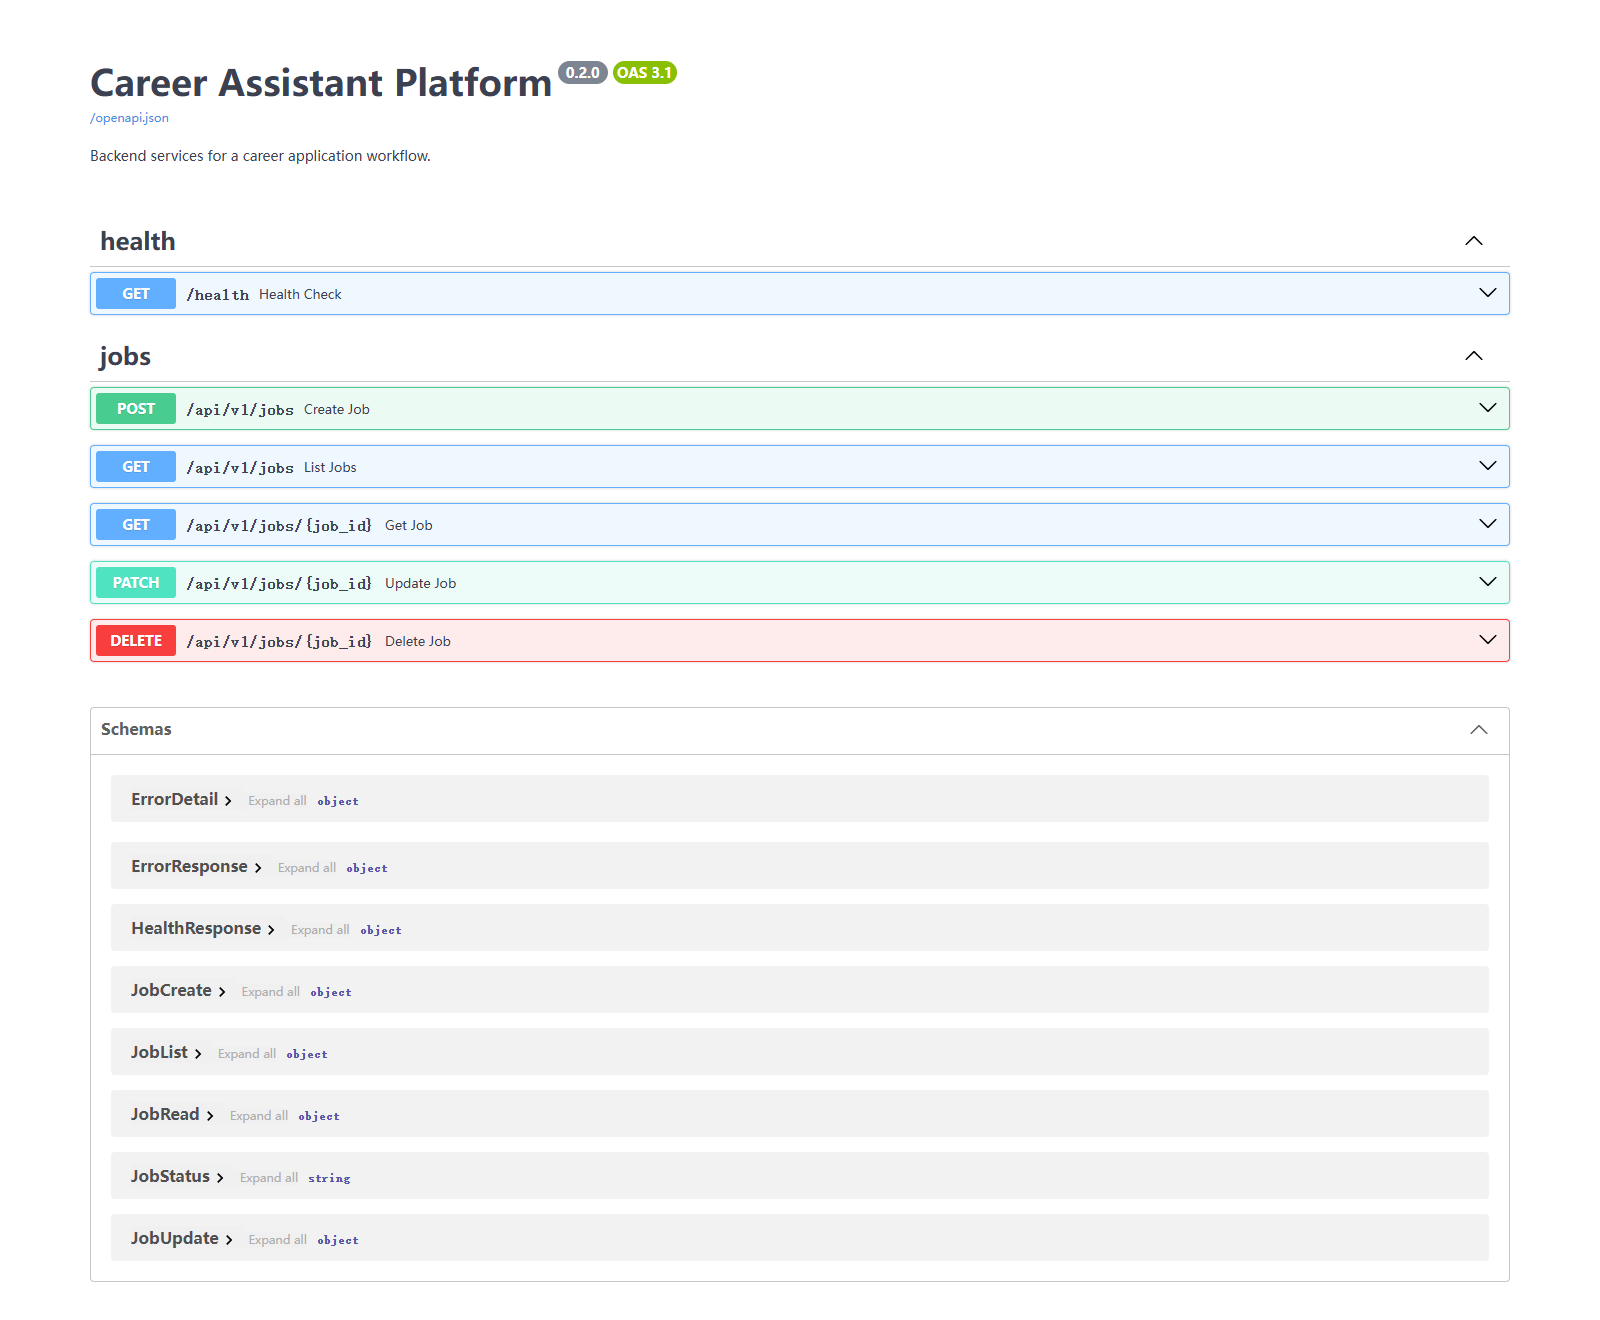
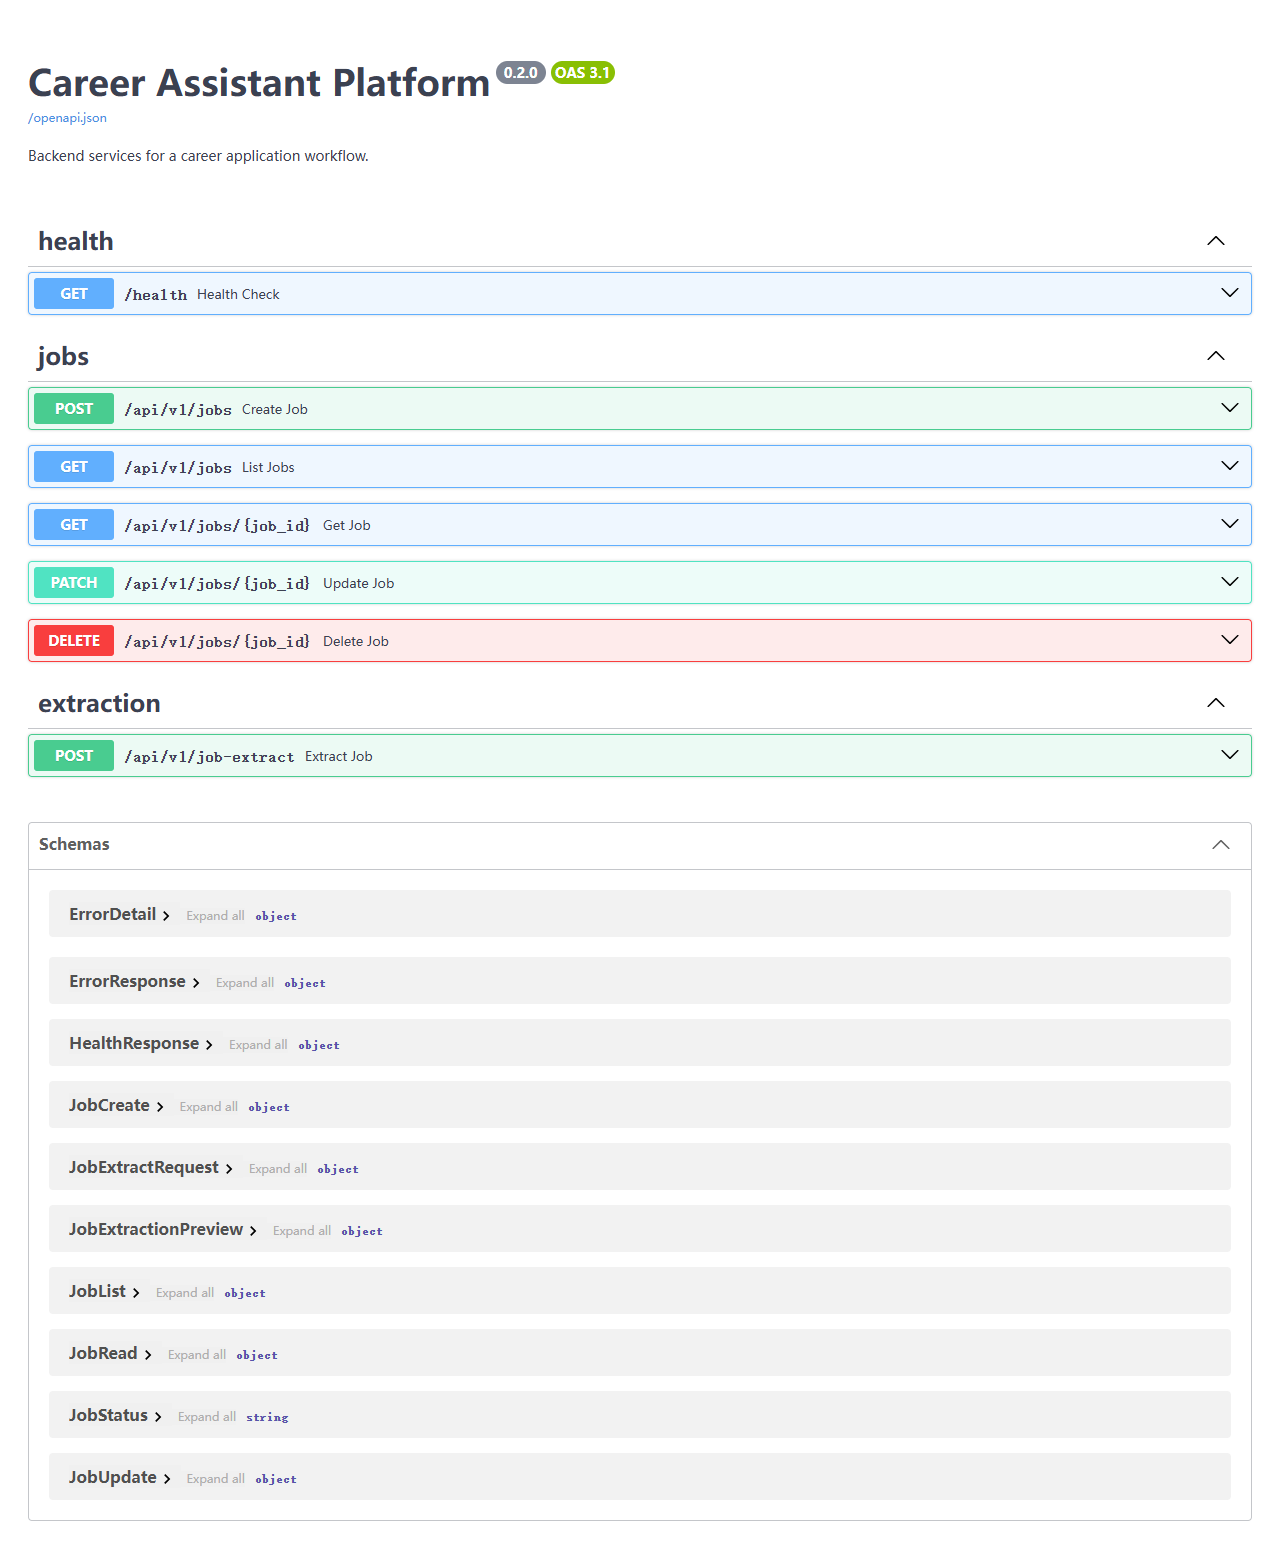
docs: add phase 2 evidence and engineering notes

diff --git a/scripts/render_pytest_evidence.py b/scripts/render_pytest_evidence.py
@@ -1,0 +1,95 @@
+"""Render a compact HTML evidence page from a pytest JUnit XML report."""
+
+from __future__ import annotations
+
+import argparse
+from collections import Counter
+from datetime import datetime, timezone
+from html import escape
+from pathlib import Path
+import platform
+import xml.etree.ElementTree as ET
+
+
+def parse_report(report_path: Path) -> tuple[dict[str, int | float], list[tuple[str, int]]]:
+    root = ET.parse(report_path).getroot()
+    suites = [root] if root.tag == "testsuite" else list(root.findall("testsuite"))
+    totals: dict[str, int | float] = {
+        "tests": 0,
+        "failures": 0,
+        "errors": 0,
+        "skipped": 0,
+        "time": 0.0,
+    }
+    modules: Counter[str] = Counter()
+
+    for suite in suites:
+        for key in ("tests", "failures", "errors", "skipped"):
+            totals[key] += int(suite.attrib.get(key, 0))
+        totals["time"] += float(suite.attrib.get("time", 0.0))
+        for case in suite.findall("testcase"):
+            module = case.attrib.get("classname", "tests").split(".")[-1]
+            modules[module] += 1
+
+    return totals, sorted(modules.items())
+
+
+def render(report_path: Path, output_path: Path) -> None:
+    totals, modules = parse_report(report_path)
+    passed = int(totals["tests"]) - int(totals["failures"]) - int(totals["errors"]) - int(totals["skipped"])
+    generated = datetime.now(timezone.utc).strftime("%Y-%m-%d %H:%M UTC")
+    module_rows = "".join(
+        f"<div class='module'><span>{escape(name)}</span><strong>{count}</strong></div>"
+        for name, count in modules
+    )
+    html = f"""<!doctype html>
+<html lang="en">
+<head>
+  <meta charset="utf-8">
+  <meta name="viewport" content="width=device-width, initial-scale=1">
+  <link rel="icon" href="data:,">
+  <title>Career Assistant Platform — Test Evidence</title>
+  <style>
+    :root {{ color-scheme: dark; --ink:#07111f; --panel:#0d1b2e; --line:#284260; --green:#64e6a7; --muted:#9bb0c7; }}
+    * {{ box-sizing:border-box; }}
+    body {{ margin:0; min-height:100vh; background:var(--ink); color:#f5f8fb; font-family:"Segoe UI",sans-serif; }}
+    main {{ width:min(1180px,calc(100% - 72px)); margin:0 auto; padding:64px 0; }}
+    .eyebrow {{ color:var(--green); font:600 13px/1.2 Consolas,monospace; letter-spacing:.16em; text-transform:uppercase; }}
+    h1 {{ margin:16px 0 10px; font:700 48px/1.05 Bahnschrift,"Segoe UI",sans-serif; }}
+    .sub {{ color:var(--muted); font-size:18px; }}
+    .hero {{ margin:48px 0 32px; display:grid; grid-template-columns:2fr repeat(3,1fr); gap:16px; }}
+    .card {{ min-height:152px; padding:24px; border:1px solid var(--line); background:var(--panel); }}
+    .card.primary {{ border-top:4px solid var(--green); }}
+    .label {{ color:var(--muted); font:600 12px/1.2 Consolas,monospace; letter-spacing:.12em; text-transform:uppercase; }}
+    .value {{ margin-top:18px; font:700 50px/1 Bahnschrift,"Segoe UI",sans-serif; }}
+    .value.green {{ color:var(--green); }}
+    .modules {{ border:1px solid var(--line); background:var(--panel); padding:28px; }}
+    .modules h2 {{ margin:0 0 22px; font:600 22px Bahnschrift,"Segoe UI",sans-serif; }}
+    .module {{ display:flex; justify-content:space-between; padding:13px 0; border-top:1px solid #1d334d; font-family:Consolas,monospace; }}
+    .module span {{ color:#c8d5e3; }}
+    footer {{ display:flex; justify-content:space-between; gap:24px; margin-top:26px; color:var(--muted); font:13px Consolas,monospace; }}
+  </style>
+</head>
+<body><main>
+  <div class="eyebrow">Verified build evidence</div>
+  <h1>Automated API test suite</h1>
+  <div class="sub">Career Assistant Platform · pytest · isolated temporary SQLite databases</div>
+  <section class="hero">
+    <div class="card primary"><div class="label">Result</div><div class="value green">{passed} passed</div></div>
+    <div class="card"><div class="label">Failed</div><div class="value">{int(totals['failures'])}</div></div>
+    <div class="card"><div class="label">Errors</div><div class="value">{int(totals['errors'])}</div></div>
+    <div class="card"><div class="label">Duration</div><div class="value">{float(totals['time']):.2f}s</div></div>
+  </section>
+  <section class="modules"><h2>Coverage by test module</h2>{module_rows}</section>
+  <footer><span>Python {escape(platform.python_version())} · {escape(platform.system())}</span><span>Generated from pytest JUnit XML · {generated}</span></footer>
+</main></body></html>"""
+    output_path.parent.mkdir(parents=True, exist_ok=True)
+    output_path.write_text(html, encoding="utf-8")
+
+
+if __name__ == "__main__":
+    parser = argparse.ArgumentParser()
+    parser.add_argument("report", type=Path)
+    parser.add_argument("output", type=Path)
+    args = parser.parse_args()
+    render(args.report, args.output)

diff --git a/docs/architecture/current-architecture.md b/docs/architecture/current-architecture.md
@@ -2,49 +2,71 @@
 
 ## Scope
 
-Phase 2 adds one database-backed domain entity: `Job`. User accounts, resumes, applications, interviews, AI integrations, RAG, agents, tool calling, queues, and external services remain outside the current system boundary.
+Phase 2 implements one persisted domain entity, `Job`, plus a preview-only job-description extraction boundary. There are no user, resume, application, interview, vector, agent, or authentication tables.
 
 ```mermaid
 flowchart TB
-    Consumer[HTTP Client / Swagger UI]
-    App[FastAPI app.main]
-    Health[Health Router]
-    Jobs[Job Router /api/v1/jobs]
-    Errors[Unified 404 and 422 Handlers]
-    Service[Job Service]
+    Client[Browser / API Client]
+    Demo[Lightweight Demo]
+    Swagger[Swagger UI]
+    App[FastAPI Application]
+    Jobs[Job Router]
+    Extract[Extraction Router]
+    JobService[Job Service]
+    ExtractService[Extraction Service]
+    Rule[Rule-based Provider]
+    DeepSeek[DeepSeek Provider - Optional]
+    Mock[Mock Provider - Test/Dev]
     ORM[SQLAlchemy 2 ORM]
     DevDB[(Development SQLite)]
 
-    Consumer --> App
-    App --> Health
-    App --> Jobs
-    App --> Errors
-    Jobs --> Service
-    Service --> ORM
-    ORM --> DevDB
+    Client --> Demo
+    Client --> Swagger
+    Demo --> Jobs
+    Demo --> Extract
+    Swagger --> App
+    Jobs --> App
+    Extract --> App
+    App --> JobService
+    App --> ExtractService
+    JobService --> ORM --> DevDB
+    ExtractService --> Rule
+    ExtractService -. configured only .-> DeepSeek
+    ExtractService -. tests/development only .-> Mock
+    ExtractService --> Preview[Editable Extraction Preview]
+    Preview -->|explicit save| Jobs
 
     Tests[pytest + HTTPX ASGITransport] --> App
     Tests --> TestDB[(Fresh SQLite database per test)]
 ```
 
-## Request Flow
+## Request Flows
+
+### Job persistence
 
 1. FastAPI validates path, query, and body data against Pydantic contracts.
 2. The Job router passes a request-scoped SQLAlchemy session to the service layer.
-3. The service performs CRUD, filtering, ordering, and pagination through SQLAlchemy 2.x statements.
+3. The service performs CRUD, filtering, ordering, and pagination with SQLAlchemy 2.x statements.
 4. ORM entities are converted to explicit response schemas.
-5. Domain not-found exceptions and request-validation failures use a consistent error envelope.
+5. Domain not-found exceptions and validation failures use one error envelope.
+
+### Job-description extraction
+
+1. `POST /api/v1/job-extract` validates a non-blank input of at most 20,000 characters.
+2. `ExtractionService` chooses the configured provider. With the safe default and no API key, it uses deterministic rule-based extraction.
+3. DeepSeek failures are classified and may fall back to rules. The response then says `rule_based_fallback`; it never claims model success.
+4. The result is a preview and does not touch the database. A user must explicitly save through `POST /api/v1/jobs`.
 
 ## Design Boundaries
 
-- `app/main.py` composes the application and initializes metadata during the lifespan startup.
-- `app/api/` owns HTTP semantics and parameter constraints.
-- `app/services/job_service.py` owns the current business and persistence operations without additional repository/DAO layers.
-- `app/models/job.py` owns the SQLAlchemy table and status enum.
-- `app/schemas/` keeps request, response, list, and error contracts separate from ORM models.
-- `app/core/` owns environment settings, session lifecycle, and exception handlers.
-- `tests/conftest.py` replaces the runtime database dependency with a new temporary SQLite database for each test.
+- `app/main.py` composes routers, static assets, error handling, and database startup.
+- `app/api/` owns HTTP semantics; `/demo` consumes the same public API rather than bypassing it.
+- `app/services/job_service.py` owns Job persistence without extra repository/DAO layers.
+- `app/services/extraction/` contains the rule-based, optional DeepSeek, and test/development mock providers.
+- `app/models/job.py` is the only SQLAlchemy entity.
+- `app/schemas/` keeps API contracts separate from ORM models.
+- `tests/conftest.py` replaces the runtime database dependency with a new temporary SQLite database for every test.
 
 ## Database Portability Boundary
 
-The engine is created from `DATABASE_URL`. SQLite receives only its required `check_same_thread=False` option; other SQLAlchemy URLs are passed without SQLite-specific settings. MySQL still requires a selected driver, a running database, and real verification before it can be claimed as supported.
+The engine is created from `DATABASE_URL`. SQLite receives only its required `check_same_thread=False` option; other SQLAlchemy URLs do not. MySQL still requires a selected driver, a running database, and real verification before it can be claimed as supported.

diff --git a/docs/development/phase-02-completion.md b/docs/development/phase-02-completion.md
@@ -1,0 +1,54 @@
+# Phase 2 Completion Log
+
+Date: 2026-09-24
+
+## Outcome
+
+Phase 2 now provides a complete Job management slice: persistence, validated CRUD, filters, pagination, deterministic demo data, a small browser demo, preview-only JD extraction, 40 automated tests, and reproducible visual evidence.
+
+## Database and Test Isolation
+
+- Development database: SQLite at the environment-configured `DATABASE_URL`; the default is `sqlite:///./career_assistant.db`.
+- Demo seed: 10 fictional records across six lifecycle states and multiple companies/locations.
+- Test database: a new temporary SQLite file for every pytest case through a dependency override.
+- MySQL: CLI, Windows service, and port 3306 were unavailable; no installation was attempted and MySQL was not verified.
+- Schema initialization stays on `Base.metadata.create_all()` because a single-table MVP has no migration history to evolve yet.
+
+## Lifecycle, Filtering, and Pagination
+
+The lifecycle is `saved`, `applied`, `interview`, `offer`, `rejected`, and `closed`. `closed` covers expired or withdrawn opportunities without mislabeling them as employer rejection. List requests support page/page-size plus case-insensitive exact company/location filters and status filtering.
+
+## Demo Design
+
+`GET /demo` is a framework-light HTML/CSS/JavaScript workbench served by FastAPI. It reads and writes through the existing REST API. It shows live status counts, filtering, the current Job list, and a four-step Paste → Extract → Review → Save flow. There is no parallel business implementation in the page.
+
+## Extraction Provider Design
+
+- `rule_based`: always available, deterministic, and tested; recognizes labeled title/company/location fields and a bounded skill vocabulary.
+- `deepseek`: optional HTTP provider with timeout and classified handling for authentication, rate limits, server errors, network failures, and malformed responses.
+- `mock`: deterministic test/development provider whose response is explicitly labeled `mock`.
+- Fallback responses are explicitly labeled `rule_based_fallback` with a non-secret reason code.
+
+Extraction creates a preview only. Persistence remains an explicit call to the Job API.
+
+## DeepSeek Availability
+
+Only the project configuration and current shell environment were checked. No `DEEPSEEK_API_KEY`, base URL, or model override was configured, so no real external call was attempted. The code default (`https://api.deepseek.com`, `deepseek-flash`) and JSON response mode were checked against the current official DeepSeek API documentation. Provider behavior is covered with HTTPX mock transports, not reported as real-provider verification.
+
+## Verification
+
+- `python -m pytest -v`: 40 passed.
+- Real Uvicorn acceptance: health, Swagger, list, create, get, update, filter, pagination, extraction, delete, and post-delete 404.
+- Browser acceptance: `/demo` and `/docs` rendered without console errors; a synthetic extracted preview was edited, saved, observed in the tracker, and deleted afterward.
+- Seed idempotency: first normalization produced 10 demo records; a repeat produced `created=0, skipped=10`.
+
+## Bugs and Lessons
+
+The detailed issue log records the real failures and fixes. The most reusable lessons were to keep runtime error schemas aligned with OpenAPI, avoid `file:` navigation for automated screenshots, remove browser-console noise such as a missing favicon, and generate test evidence from machine-readable output rather than manually typing a result.
+
+## Deferred
+
+- MySQL runtime and driver verification
+- Alembic migrations when schema evolution begins
+- Real DeepSeek smoke test when the user deliberately supplies a key
+- Authentication, additional career entities, deployment, and observability

diff --git a/docs/research/open-source-reference.md b/docs/research/open-source-reference.md
@@ -1,0 +1,20 @@
+# Open-source Reference Review
+
+Reviewed on 2026-09-24 using repository metadata and README files through the GitHub API. No repository was cloned and no third-party source code was copied.
+
+| Repository | License | Useful reference | Adopted here | Intentionally not adopted |
+|---|---|---|---|---|
+| [career-ops-hq/career-ops](https://github.com/career-ops-hq/career-ops) | MIT | Local-first positioning, explicit limits, and evidence-led project presentation | Honest implemented-versus-planned language and a visible user-controlled workflow | Automated job searching, CV tailoring, scoring, and agent workflows are beyond Phase 2 |
+| [Gsync/jobsync](https://github.com/Gsync/jobsync) | MIT | Application tracking, dashboard summaries, and confirmation before a pasted posting is stored | Paste → extract → editable preview → explicit save; status summary cards | Its broader resume, contact, task, discovery, MCP, and deployment stack would obscure this backend-focused MVP |
+| [DanielPan12/JobHuntBot](https://github.com/DanielPan12/JobHuntBot) | MIT | Small local dashboard, clear privacy boundaries, and synthetic/empty starter data | Framework-light demo UI and deliberate separation of demo data from private job-search data | Browser-driven application submission and CSV workflow automation are outside the product boundary |
+| [offercontext/offerPilot](https://github.com/offercontext/offerPilot) | AGPL-3.0 | Local-first job lifecycle presentation and real-interface documentation | Six explicit Job states and screenshots tied to actual running behavior | Its multi-domain product scope and AGPL implementation were not reused; this project remains an independent MIT implementation |
+
+## Decisions
+
+- Keep the data model to one real entity until the Job lifecycle is stable.
+- Make offline behavior useful: rule-based extraction works without an external key.
+- Require explicit user confirmation between extraction and persistence.
+- Prefer a small FastAPI-hosted demo over a separate frontend toolchain.
+- Show real tests, screenshots, and database constraints rather than future feature mockups.
+
+Repository names, descriptions, and license identifiers were verified from GitHub on the review date. Ideas were reimplemented against this project's own API and constraints.

diff --git a/docs/development/phase-02-job-management.md b/docs/development/phase-02-job-management.md
@@ -50,13 +50,13 @@ Six statuses were selected: `saved`, `applied`, `interview`, `offer`, `rejected`
 
 The suite exercises the ASGI application through HTTPX. A fixture creates a new SQLite file and SQLAlchemy engine for every test, overrides `get_db`, and disposes the engine afterward. This prevents ordering dependencies and protects the development database.
 
-Phase 2 result: 17 tests passed, including all required CRUD, validation, pagination, filtering, and missing-resource cases.
+The initial Job API milestone passed 17 tests. The completed Phase 2 suite now passes 40 tests covering CRUD, validation, pagination, filtering, demo assets, idempotent seeding, extraction providers, and truthful fallback behavior.
 
 ## Manual Acceptance
 
 Uvicorn was started at `127.0.0.1:8000`. Real requests verified `/health`, `/docs`, create, get, combined filters, patch, delete, and missing-resource behavior. Swagger “Try it out” created a second synthetic Job and returned HTTP `201`.
 
-See [API Acceptance Evidence](api-acceptance-phase-02.md) and the images in [`docs/images`](../images/README.md).
+The completed acceptance also verified `/demo` and `/api/v1/job-extract`. See [API Acceptance Evidence](api-acceptance-phase-02.md), the [completion log](phase-02-completion.md), and the images in [`docs/images`](../images/README.md).
 
 ## Deferred Work
 
@@ -64,4 +64,5 @@ See [API Acceptance Evidence](api-acceptance-phase-02.md) and the images in [`do
 - Alembic migrations
 - Entities other than Job
 - Authentication and authorization
-- AI, RAG, agents, MCP, and vector storage
+- Real DeepSeek smoke verification (no key was configured)
+- RAG, agents, MCP, and vector storage

diff --git a/docs/development/issue-log.md b/docs/development/issue-log.md
@@ -37,3 +37,17 @@
 **Cause:** The browser automation safety policy blocks the `file:` protocol.
 
 **Resolution:** Served the static diagram temporarily on `127.0.0.1:8765`, captured the verified page, and stopped the temporary server. No schema data was uploaded externally.
+
+## 2026-09-24: Demo acceptance produced a browser console error
+
+**Observed:** The demo rendered and functioned, but the browser console reported a `404` for `/favicon.ico`.
+
+**Cause:** Browsers request a favicon automatically even when a page does not declare one.
+
+**Resolution:** Added a safe inline `data:` favicon to the demo and the reproducible test-evidence page, reran browser acceptance, and confirmed zero console errors and warnings.
+
+## 2026-09-24: Test screenshot risked becoming manually curated evidence
+
+**Observed:** A terminal screenshot would be difficult to reproduce at a stable size and could be mistaken for manually composed output.
+
+**Resolution:** Ran pytest with JUnit XML output, added a small renderer that reads the real counts and duration, and captured that generated page in a real browser. The source XML remains a local ignored build artifact; the screenshot reports the verified 40-test run.

diff --git a/docs/development/api-acceptance-phase-02.md b/docs/development/api-acceptance-phase-02.md
@@ -10,6 +10,8 @@ All records below are synthetic. Uvicorn served the real application on `http://
 |---|---|
 | `GET /health` | `200`, `{"status":"ok"}` |
 | `GET /docs` | `200` |
+| `GET /demo` | `200`, live dashboard loaded 10 synthetic Jobs |
+| `POST /api/v1/job-extract` | `200`, rule-based preview with five detected skills |
 | `POST /api/v1/jobs` | `201`, created Job 1 |
 | `GET /api/v1/jobs/1` | `200`, returned Job 1 |
 | Filter by company + status + location | `200`, total 1 |
@@ -41,7 +43,7 @@ The matching live Swagger response is captured in [`job-api-example.png`](../ima
 
 The generated document exposed:
 
-- Paths: `/health`, `/api/v1/jobs`, `/api/v1/jobs/{job_id}`
-- Operations: create, list, get, update, and delete
-- Schemas: `JobCreate`, `JobUpdate`, `JobRead`, `JobList`, `JobStatus`, `ErrorDetail`, `ErrorResponse`, and `HealthResponse`
+- Paths: `/health`, `/api/v1/jobs`, `/api/v1/jobs/{job_id}`, and `/api/v1/job-extract`
+- Operations: create, list, get, update, delete, and extraction preview
+- Schemas: Job CRUD/list/status contracts, extraction request/preview contracts, shared errors, and health
 - Explicit `201`, `204`, `404`, and custom `422` response documentation

diff --git a/docs/images/README.md b/docs/images/README.md
@@ -4,14 +4,9 @@ This directory contains evidence captured from implemented and running features.
 
 ## Current Evidence
 
-- `swagger-job-api.png`: live FastAPI Swagger UI showing Health and all five Job CRUD operations plus generated schemas
+- `swagger-job-api.png`: live FastAPI Swagger UI showing Health, all five Job CRUD operations, extraction, and generated schemas
 - `job-api-example.png`: live Swagger execution of a synthetic Job creation request with HTTP 201 response
 - `database-er-diagram.png`: one-entity schema diagram based on the actual Phase 2 SQLite `jobs` DDL
-
-## Planned Evidence
-
-The following files do not exist yet and will be added only when their corresponding features are real:
-
-- `application-demo.png`
-- `allure-report.png`
-- `ai-evaluation.png`
+- `demo-dashboard.png`: real `/demo` page backed by the seeded development SQLite database
+- `job-extraction-demo.png`: real rule-based extraction preview, explicitly labeled as offline
+- `pytest-result.png`: browser capture generated from the real pytest JUnit XML report
